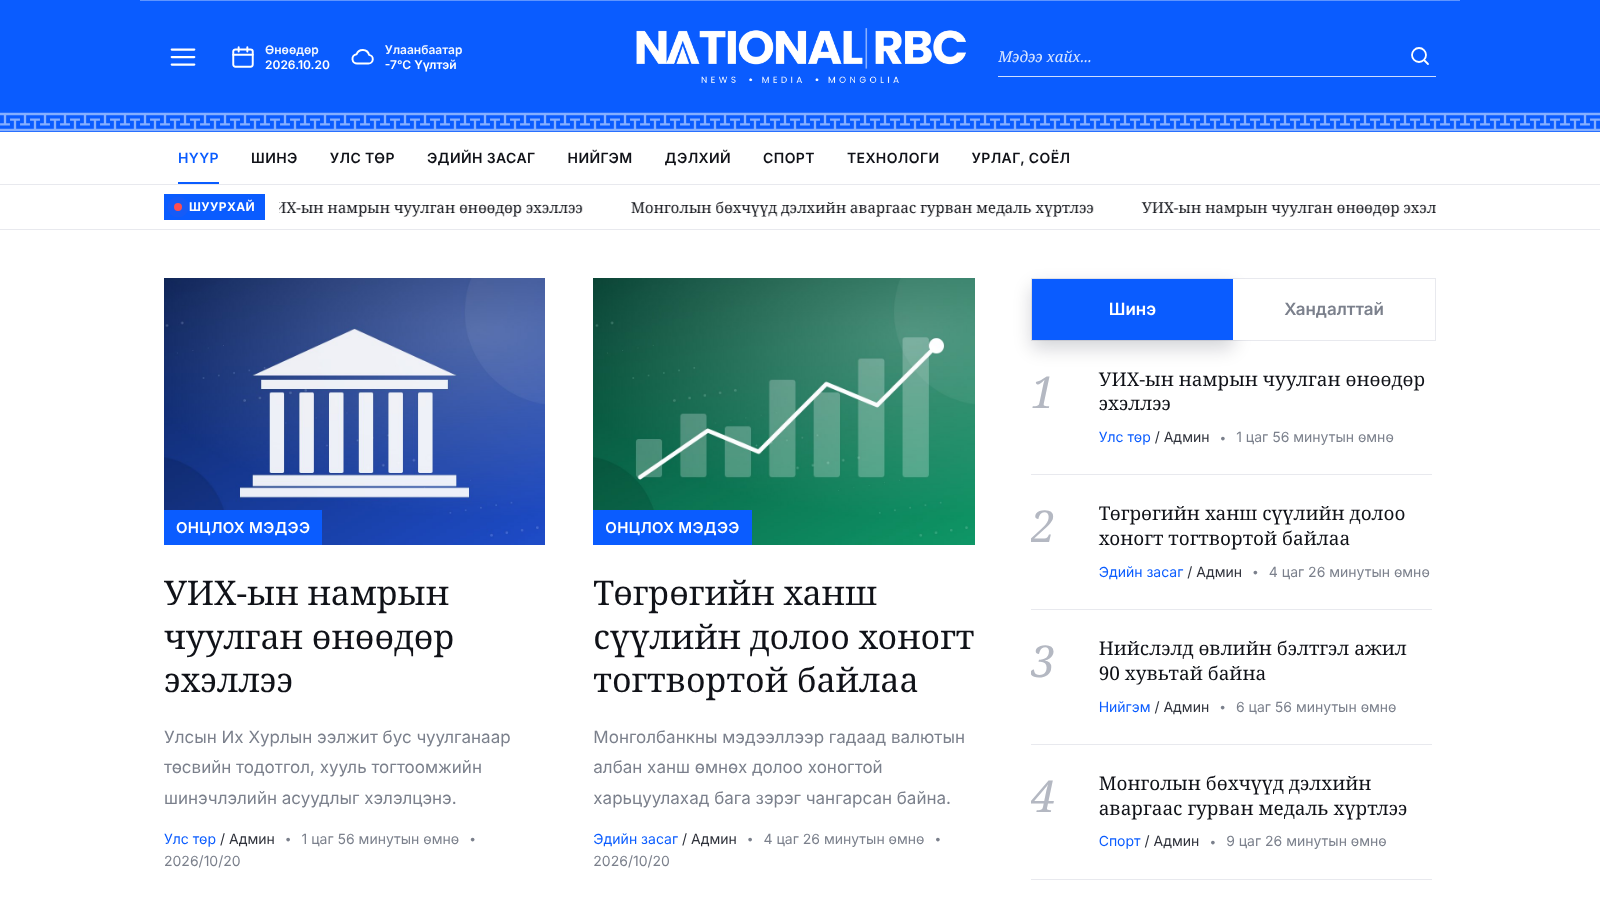
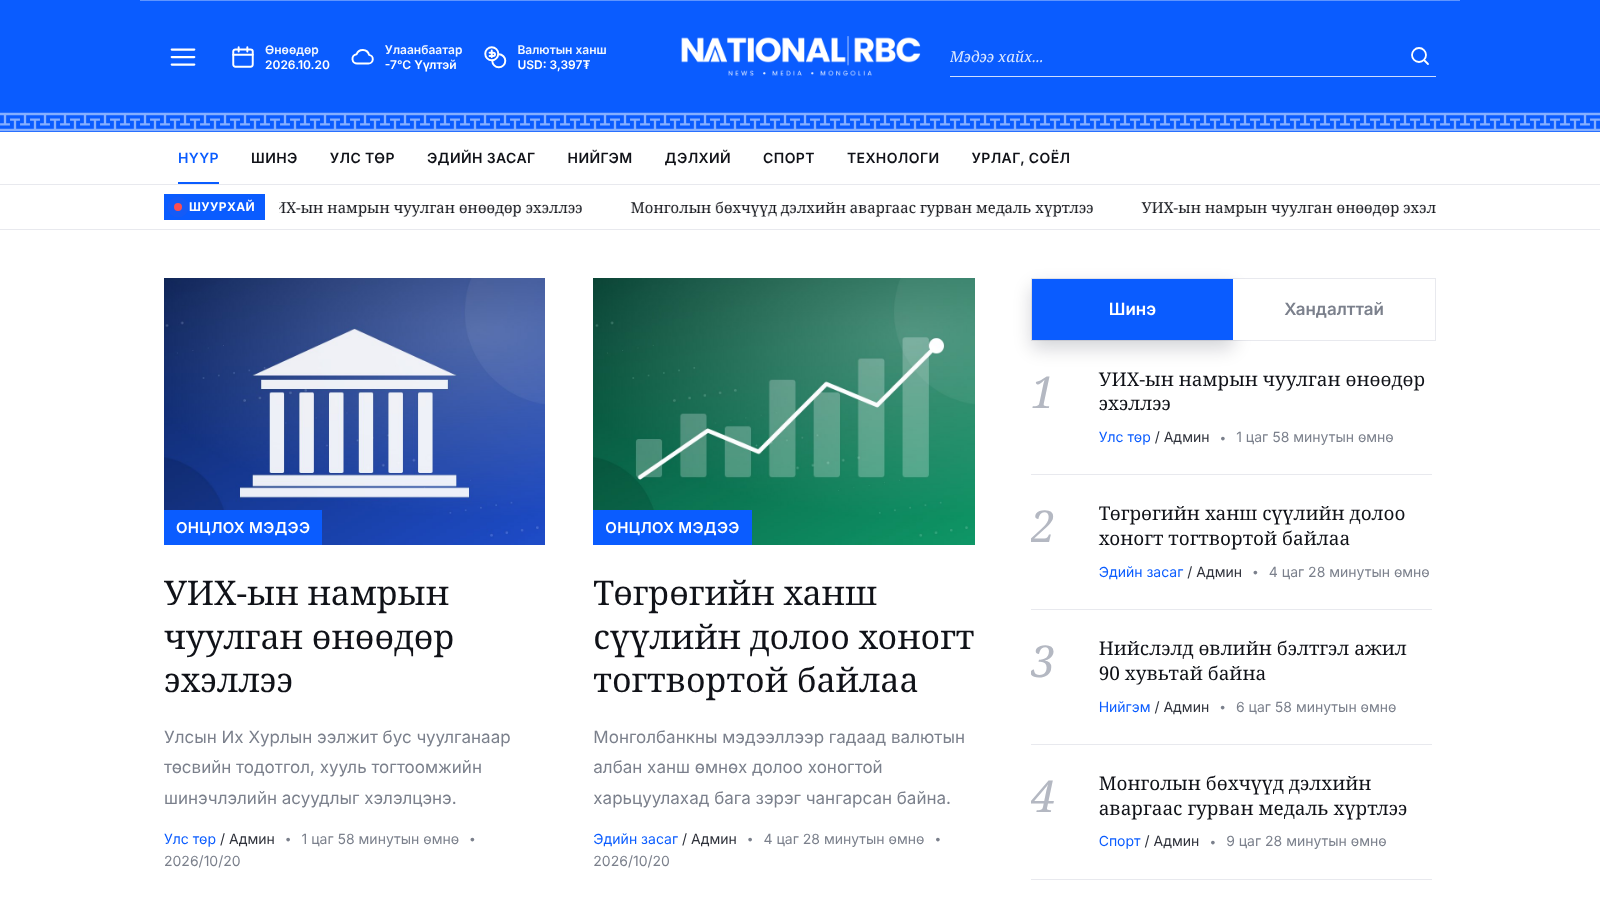
Логоны хэмжээг багасгав
Header 72px -> 52px, footer 46px, drawer 34px, mobile 32px; the rates item fits beside the logo again.

Claude-Session: https://claude.ai/code/session_01JvAJfAud3Ah2p7wG7HWkKJ

diff --git a/php/assets/css/style.css b/php/assets/css/style.css
@@ -53,7 +53,7 @@ button { font: inherit; }
 .icon-btn { background: none; border: 0; color: inherit; padding: 4px; cursor: pointer; display: inline-flex; }
 .logo { font-family: var(--serif); font-size: clamp(28px, 2.3vw, 40px); font-weight: 500; color: #fff; letter-spacing: -.5px; line-height: 1; white-space: nowrap; }
 .logo:hover { color: #fff; }
-.logo img { max-height: 72px; width: auto; }
+.logo img { max-height: 52px; width: auto; }
 .header-right { display: flex; justify-content: flex-end; align-items: center; }
 .header-search { display: flex; align-items: center; width: 100%; max-width: 540px; border-bottom: 1px solid rgba(255, 255, 255, .8); }
 .header-search input { flex: 1; min-width: 0; background: transparent; border: 0; color: #fff; padding: 10px 0; font: italic 15px var(--serif); outline: none; }
@@ -79,7 +79,7 @@ body.drawer-open .drawer { transform: translateX(0); }
 body.drawer-open .drawer-overlay { opacity: 1; pointer-events: auto; }
 .drawer-head { display: flex; justify-content: space-between; align-items: center; padding: 22px 24px; background: var(--brand); color: #fff; }
 .logo-sm { font-size: 28px; }
-.logo-sm img { max-height: 40px; }
+.logo-sm img { max-height: 34px; }
 .drawer-nav, .drawer-pages { list-style: none; margin: 0; padding: 8px 0; }
 .drawer-nav a { display: block; padding: 13px 24px; font-size: 16px; font-weight: 600; color: var(--ink); border-left: 3px solid transparent; }
 .drawer-nav a:hover, .drawer-nav a.active { color: var(--brand); background: var(--brand-soft); border-left-color: var(--brand); }
@@ -218,7 +218,7 @@ body.drawer-open .drawer-overlay { opacity: 1; pointer-events: auto; }
 .site-footer { background: var(--footer); color: #fff; }
 .footer-grid { display: grid; grid-template-columns: 1.5fr 1.2fr .8fr; gap: 64px; padding-top: 88px; padding-bottom: 56px; }
 .footer-brand p { font-size: 14px; line-height: 1.95; margin: 26px 0 36px; max-width: 560px; }
-.footer-brand .logo img { max-height: 56px; }
+.footer-brand .logo img { max-height: 46px; }
 .socials { display: flex; gap: 12px; }
 .socials a { width: 44px; height: 44px; border-radius: 50%; border: 2px solid currentColor; display: inline-flex; align-items: center; justify-content: center; color: #fff; transition: background .2s, color .2s; }
 .site-footer .socials a:hover { background: #fff; color: var(--footer); }
@@ -362,7 +362,7 @@ body.drawer-open .drawer-overlay { opacity: 1; pointer-events: auto; }
   .header-inner { min-height: 68px; grid-template-columns: auto 1fr auto; gap: 8px; }
   .header-left { gap: 0; }
   .logo { font-size: 28px; text-align: center; }
-  .logo img { max-height: 40px; margin: 0 auto; }
+  .logo img { max-height: 32px; margin: 0 auto; }
   .header-right { position: static; }
   .search-toggle { display: inline-flex; }
   .header-search { display: none; }
